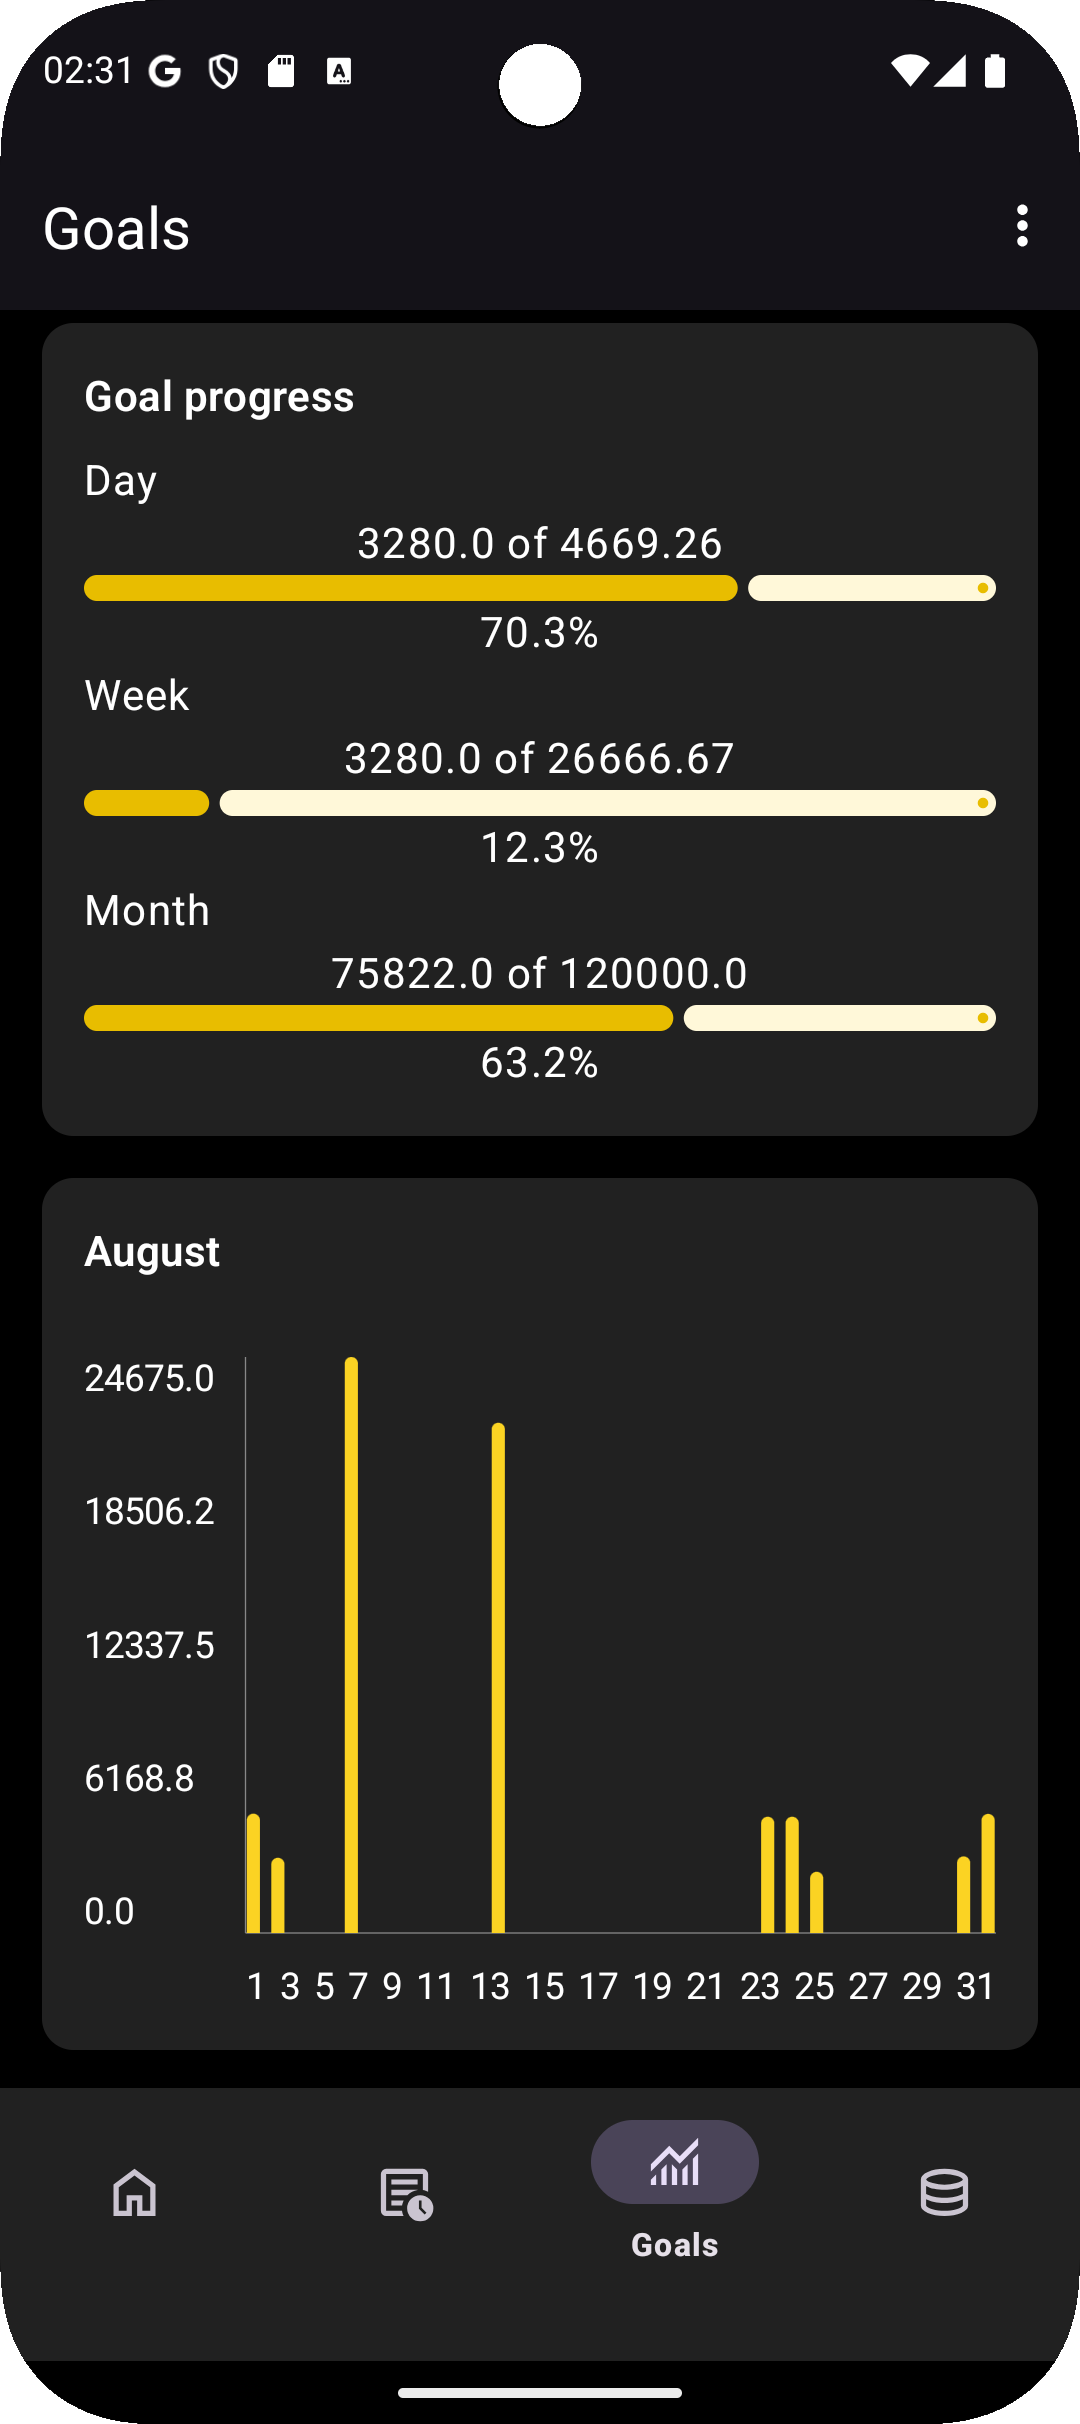
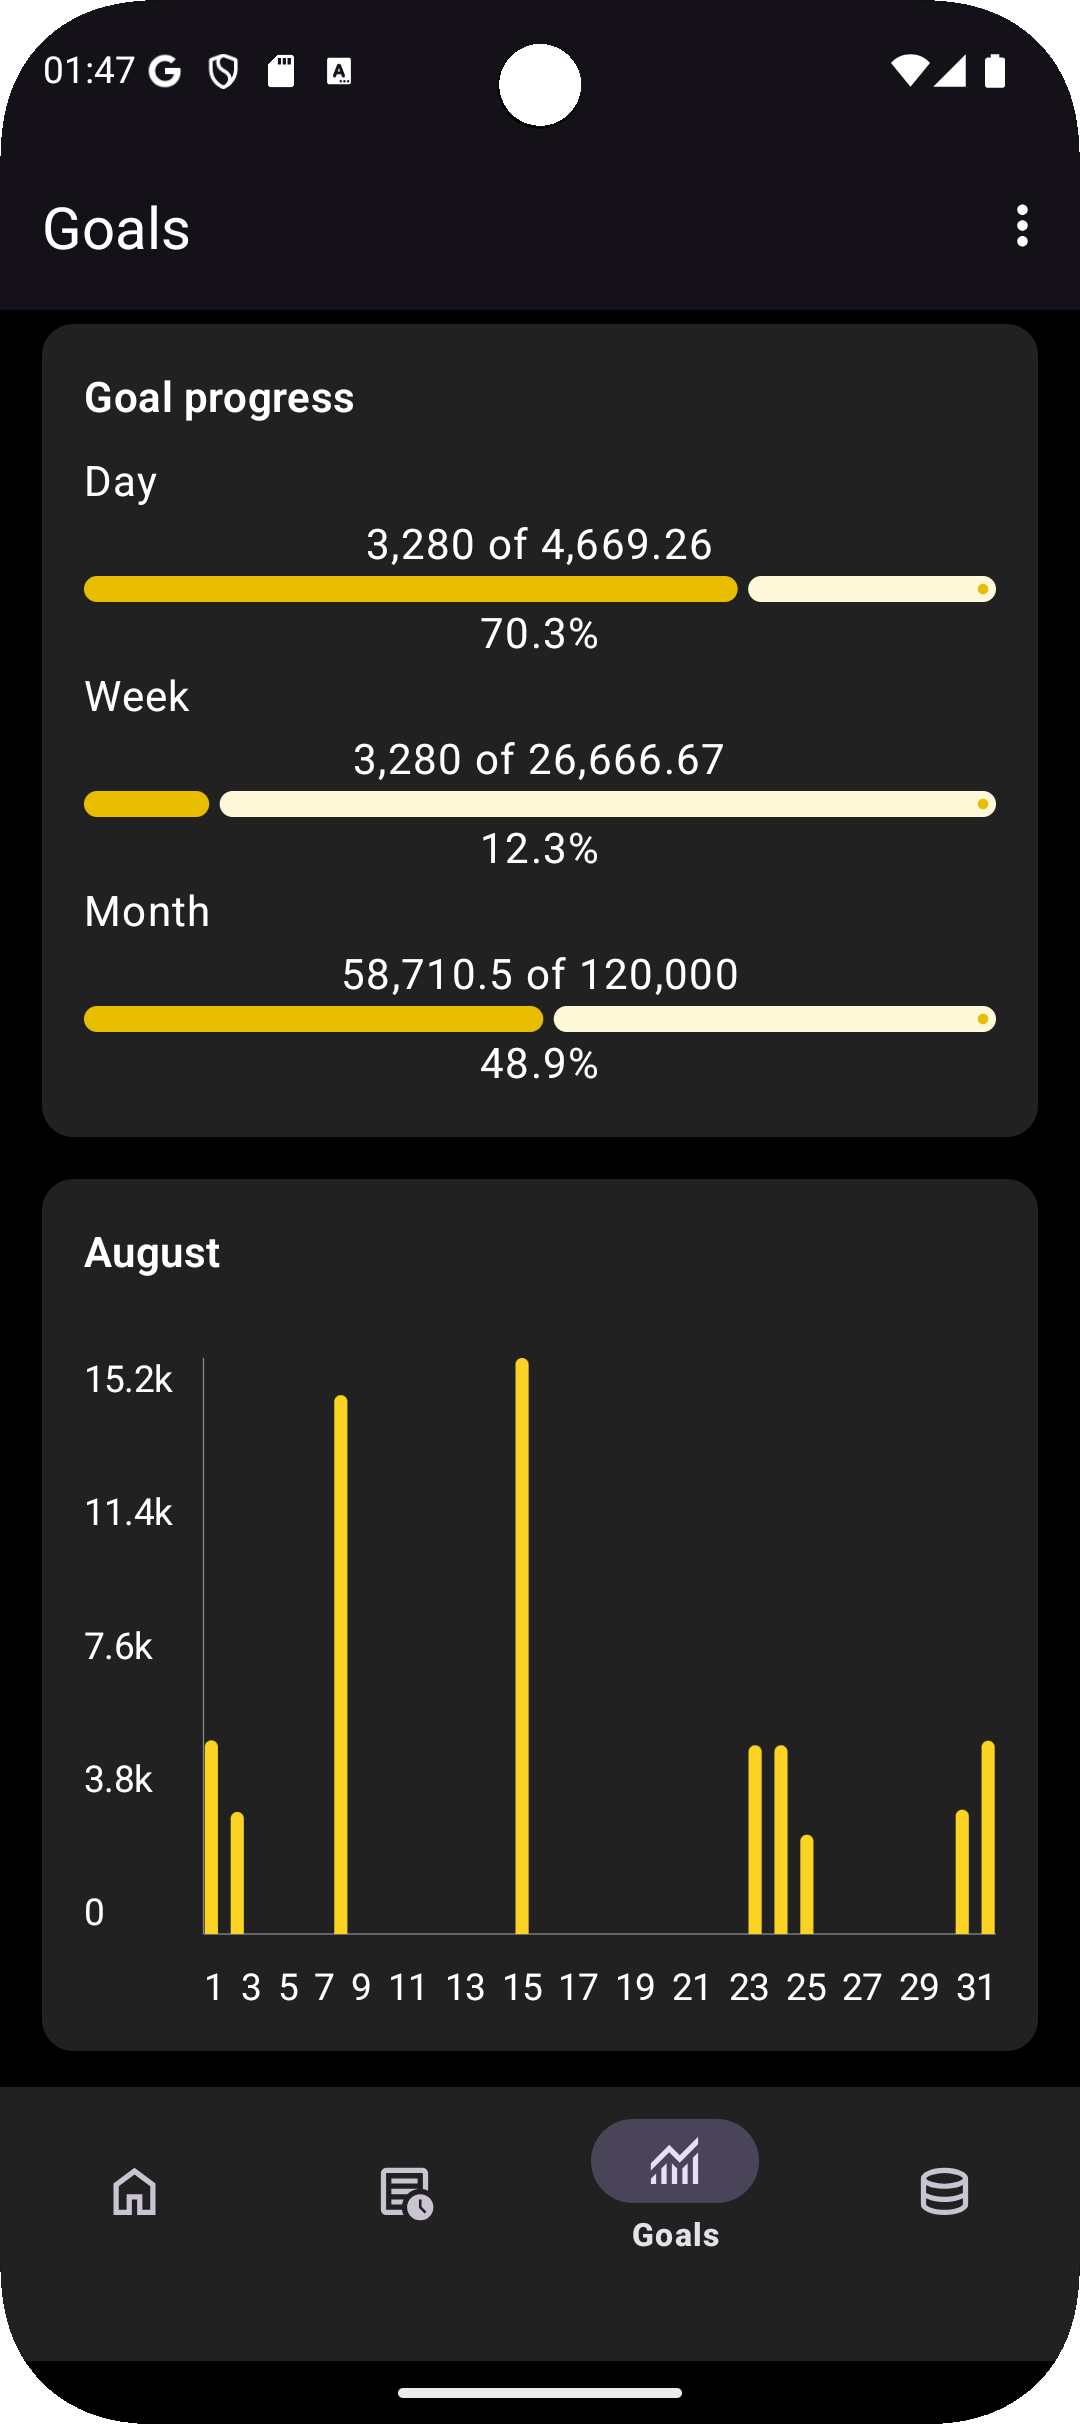
Refactor: Update goal progress UI and formatting
- Renamed `DaysInMonthCard` to `CardDaysInMonth` and updated its usage in `GoalsFragment.kt`.
- Renamed `ProgressColumn` composable to `GoalProgressIndicator` in `CardDayWeekMonthProgress.kt`.
- Implemented number formatting for progress and goal values in `GoalProgressIndicator` to improve readability for large numbers.
- Updated `GraphIndicatorHelper.formatIndicatorValue` to format numbers greater than or equal to 1000 with a "k" (or "тыс" for Russian locale) suffix, displaying one decimal place if not a whole number.
- Applied `GraphIndicatorHelper.formatIndicatorValue` for formatting indicator labels in `CardDaysInMonth`.
- Updated the screenshot for the goal screen.

diff --git a/app/src/main/java/com/hsact/taxilog/ui/cards/CardDayWeekMonthProgress.kt b/app/src/main/java/com/hsact/taxilog/ui/cards/CardDayWeekMonthProgress.kt
@@ -26,6 +26,8 @@ import com.hsact.taxilog.ui.components.CardHeader
 import com.hsact.taxilog.ui.fragments.goals.GoalDataState
 import kotlinx.coroutines.flow.MutableStateFlow
 import kotlinx.coroutines.flow.StateFlow
+import java.text.NumberFormat
+import java.util.Locale
 
 private var stringOf = ""
 private var stringDay = ""
@@ -88,21 +90,21 @@ fun DrawDayWeekMonthProgressCard(goalData: StateFlow<GoalDataState>) {
         Column {
             CardHeader(stringResource(R.string.month_graph, goalMonth))
             Spacer(modifier = Modifier.height(8.dp))
-            ProgressColumn(
+            GoalProgressIndicator(
                 stringDay,
                 goalDay,
                 animatedProgressDay.value,
                 progressDay,
                 progressDayP
             )
-            ProgressColumn(
+            GoalProgressIndicator(
                 stringWeek,
                 goalWeek,
                 animatedProgressWeek.value,
                 progressWeek,
                 progressWeekP
             )
-            ProgressColumn(
+            GoalProgressIndicator(
                 stringMonth,
                 goalMonth,
                 animatedProgressMonth.value,
@@ -114,13 +116,15 @@ fun DrawDayWeekMonthProgressCard(goalData: StateFlow<GoalDataState>) {
 }
 
 @Composable
-private fun ProgressColumn(
+private fun GoalProgressIndicator(
     period: String,
     goal: Float,
     animatedProgress: Float,
     progress: Float,
     progressP: Float,
 ) {
+    val formattedProgress = NumberFormat.getNumberInstance(Locale.getDefault()).format(progress)
+    val formattedGoal = NumberFormat.getNumberInstance(Locale.getDefault()).format(goal)
     Column(
         modifier = Modifier
             .fillMaxWidth()
@@ -134,7 +138,7 @@ private fun ProgressColumn(
         Text(
             modifier = Modifier
                 .align(Alignment.CenterHorizontally),
-            text = "$progress $stringOf $goal"
+            text = "$formattedProgress $stringOf $formattedGoal"
         )
         LinearProgressIndicator(
             modifier = Modifier

diff --git a/app/src/main/java/com/hsact/taxilog/ui/fragments/goals/GoalsFragment.kt b/app/src/main/java/com/hsact/taxilog/ui/fragments/goals/GoalsFragment.kt
@@ -15,7 +15,7 @@ import com.hsact.domain.utils.DeprecatedDateFormatter
 import com.hsact.taxilog.R
 import com.hsact.taxilog.databinding.FragmentGoalsBinding
 import com.hsact.taxilog.ui.cards.DrawDayWeekMonthProgressCard
-import com.hsact.taxilog.ui.cards.DaysInMonthCard
+import com.hsact.taxilog.ui.cards.CardDaysInMonth
 import com.hsact.taxilog.ui.components.DatePickerFragment
 import dagger.hilt.android.AndroidEntryPoint
 import java.time.LocalDateTime
@@ -61,7 +61,7 @@ class GoalsFragment : Fragment() {
             DrawDayWeekMonthProgressCard(viewModel.goalDataState)
         }
         card2.setContent {
-            DaysInMonthCard(viewModel.daysInMonthCardState)
+            CardDaysInMonth(viewModel.daysInMonthCardState)
         }
         super.onViewCreated(view, savedInstanceState)
     }
@@ -70,7 +70,7 @@ class GoalsFragment : Fragment() {
         DatePickerFragment.pickDate(context = this, editObj = editObj) {
             viewModel.setDate(editObj.text.toString())
             card1.setContent { DrawDayWeekMonthProgressCard(viewModel.goalDataState) }
-            card2.setContent { DaysInMonthCard(viewModel.daysInMonthCardState) }
+            card2.setContent { CardDaysInMonth(viewModel.daysInMonthCardState) }
         }
     }
 

diff --git a/app/src/main/java/com/hsact/taxilog/ui/cards/CardDaysInMonth.kt b/app/src/main/java/com/hsact/taxilog/ui/cards/CardDaysInMonth.kt
@@ -29,7 +29,7 @@ import java.time.format.DateTimeFormatter
 import java.util.Locale
 
 @Composable
-fun DaysInMonthCard(data: StateFlow<DaysInMonthCardState>) {
+fun CardDaysInMonth(data: StateFlow<DaysInMonthCardState>) {
     val dataState by data.collectAsStateWithLifecycle()
     val days = dataState.days
     val date = dataState.date
@@ -57,6 +57,13 @@ fun DaysInMonthCard(data: StateFlow<DaysInMonthCardState>) {
     val indicatorProperties = HorizontalIndicatorProperties(
         enabled = true,
         textStyle = textStyle,
+        indicators = GraphIndicatorHelper.buildIndicators(0.0, days.max()),
+        contentBuilder = {
+            GraphIndicatorHelper.formatIndicatorValue(
+                it,
+                locale = Locale.getDefault()
+            )
+        }
     )
     val locale = Locale.getDefault()
     val formatter = DateTimeFormatter.ofPattern("LLLL", locale)
@@ -110,5 +117,5 @@ private fun CardPreview() {
             )
         )
     }
-    DaysInMonthCard(previewState)
+    CardDaysInMonth(previewState)
 }

diff --git a/app/src/main/java/com/hsact/taxilog/ui/cards/GraphIndicatorHelper.kt b/app/src/main/java/com/hsact/taxilog/ui/cards/GraphIndicatorHelper.kt
@@ -1,6 +1,7 @@
 package com.hsact.taxilog.ui.cards
 
 import java.util.Locale
+import kotlin.math.roundToLong
 
 internal object GraphIndicatorHelper {
     fun buildIndicators(
@@ -13,10 +14,16 @@ internal object GraphIndicatorHelper {
     }
 
     fun formatIndicatorValue(value: Double, locale: Locale): String {
-        val rounded = value.toLong()
-        val suffix = if (locale.language == "ru") " 000" else "k"
-        return if (rounded >= 5000) {
-            "${rounded / 1000}${suffix}"
+        val rounded = value.roundToLong()
+        return if (rounded >= 1000) {
+            val thousands = rounded / 1000.0
+            val formatted = if (thousands % 1.0 == 0.0) {
+                thousands.toInt().toString()
+            } else {
+                String.format(locale, "%.1f", thousands)
+            }
+            val suffix = if (locale.language == "ru") " тыс" else "k"
+            "$formatted$suffix"
         } else {
             rounded.toString()
         }
